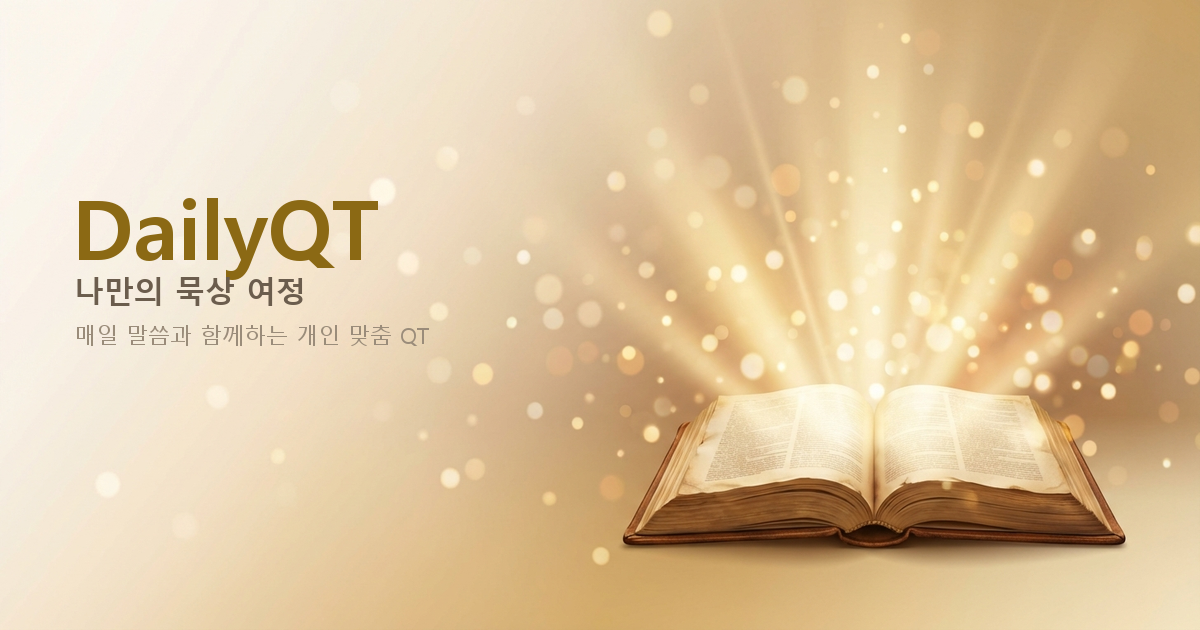
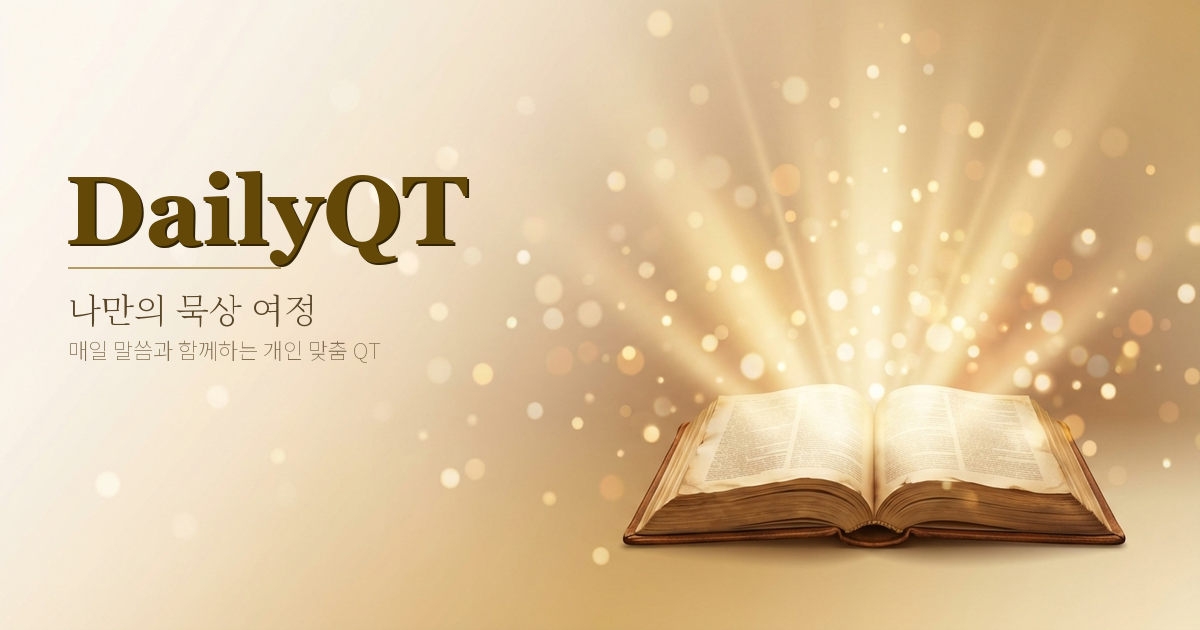
OG/파비콘 리디자인: 고대비 타이포 + 다중 사이즈 파비콘
- OG: Georgia Bold 96pt + Noto Serif KR, 좌측 밝기 오버레이로 대비 강화
- 파비콘: 32/192/180(apple-touch)/512 사이즈 생성
- 전 페이지 다중 파비콘 메타태그 적용

Changed region(s): [[0.0617, 0.2714, 0.4008, 0.573]]

diff --git a/public/index.html b/public/index.html
@@ -4,7 +4,9 @@
   <meta charset="UTF-8">
   <meta name="viewport" content="width=device-width, initial-scale=1.0">
   <title>DailyQT - 매일 말씀과 함께하는 나만의 묵상</title>
-  <link rel="icon" type="image/png" href="/favicon.png">
+  <link rel="icon" type="image/png" sizes="32x32" href="/favicon-32.png">
+  <link rel="icon" type="image/png" sizes="192x192" href="/favicon-192.png">
+  <link rel="apple-touch-icon" href="/apple-touch-icon.png">
   <meta property="og:title" content="DailyQT - 나만의 묵상 여정">
   <meta property="og:description" content="개인 맞춤 QT, 4단계 묵상 가이드, 3개국어 성경 비교. 매일 말씀과 함께하는 나만의 묵상.">
   <meta property="og:image" content="https://dailyqt.xyz/og-image.png">

diff --git a/public/login.html b/public/login.html
@@ -4,7 +4,8 @@
   <meta charset="UTF-8">
   <meta name="viewport" content="width=device-width, initial-scale=1.0">
   <title>DailyQT - 로그인</title>
-  <link rel="icon" type="image/png" href="/favicon.png">
+  <link rel="icon" type="image/png" sizes="32x32" href="/favicon-32.png">
+  <link rel="apple-touch-icon" href="/apple-touch-icon.png">
   <meta property="og:title" content="DailyQT - 나만의 묵상 여정">
   <meta property="og:description" content="개인 맞춤 QT, 4단계 묵상 가이드, 3개국어 성경 비교.">
   <meta property="og:image" content="https://dailyqt.xyz/og-image.png">

diff --git a/public/onboarding.html b/public/onboarding.html
@@ -4,7 +4,8 @@
 <meta charset="UTF-8">
 <meta name="viewport" content="width=device-width, initial-scale=1.0">
 <title>DailyQT - 나만의 묵상 여정 시작하기</title>
-<link rel="icon" type="image/png" href="/favicon.png">
+<link rel="icon" type="image/png" sizes="32x32" href="/favicon-32.png">
+<link rel="apple-touch-icon" href="/apple-touch-icon.png">
 <link href="https://fonts.googleapis.com/css2?family=Noto+Sans+KR:wght@300;400;500;700&display=swap" rel="stylesheet">
 <style>
   :root {
